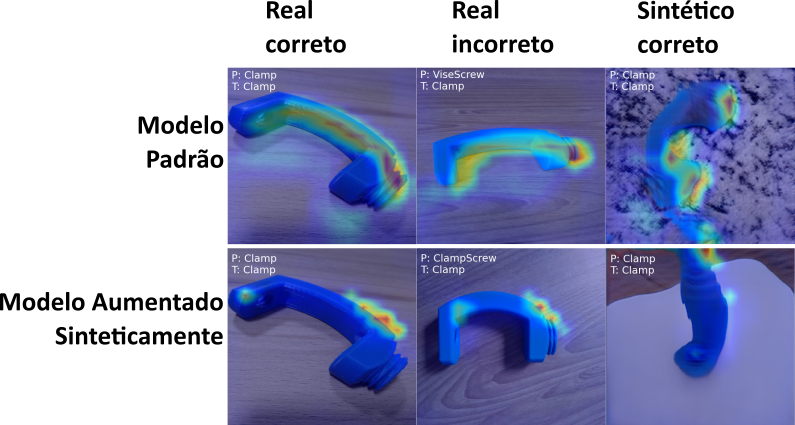
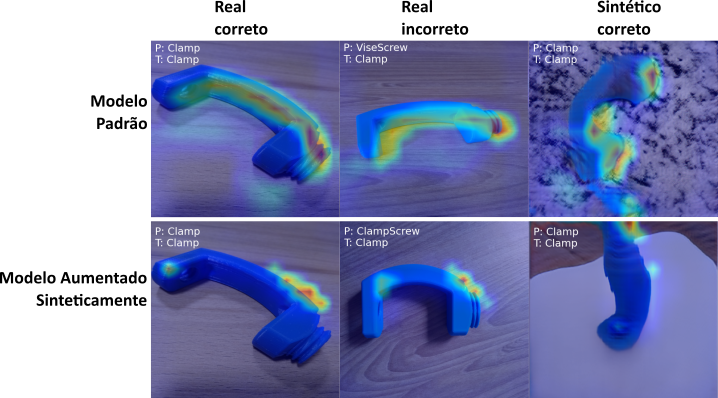
Att README

diff --git a/README.md b/README.md
@@ -66,7 +66,7 @@ O presente trabalho foi realizado em três etapas, sendo elas:
 
 **2) Classificação**: Treinamos uma série de CNNs a partir das imagens e de seus rótulos. Mais explicitamente, avaliamos os efeitos de 1. treinar um classificador somente nos dados originais; 2. treinar com os dados originais e técnicas tradicionais de aumento de dados; e 3. treinar com os dados originais e com os dados sintéticos.
 
-**3) Visualização do aprendizado das CNNs**: Uma vez treinada as CNNs aplicamos a Grad-CAM, uma técnica que nos possibilita visualizar as regiões da imagem mais relevantes para a decisão do classificador.
+**3) Visualização do aprendizado das CNNs**: Uma vez treinada as CNNs aplicamos a [Grad-CAM](https://arxiv.org/abs/1610.02391), uma técnica que nos possibilita visualizar as regiões da imagem mais relevantes para a decisão do classificador.
 
 ### **Avaliação**
 
@@ -77,6 +77,7 @@ Dada a abordagem acima, avaliamos os resultados do nosso experimento por meio de
 Para este trabalho, utilizamos o [PyTorch](https://pytorch.org/) como framework principal e desenvolvemos o código no ambiente [Google Colab](https://colab.research.google.com/).
 
 ## Resultados e Discussão
+Abaixo dividimos a seção em três partes para abordar melhor a cronologia de desenvolvimento de cada etapa do projeto.
 
 ### **1) GANs**
 Adaptando a arquitetura da FastGAN para as nossas necessidades conseguimos treinar cada classe do nosso conjunto de dados individualmente. Algumas amostras podem ser visualizadas abaixo:
@@ -85,10 +86,16 @@ Adaptando a arquitetura da FastGAN para as nossas necessidades conseguimos trein
 |:--:|
 | Figura 3 - Amostra geradas. <br> Fonte: Imagem própria. |
 
-As amostras obtidas por meio da rede generativa lembram a estrutura da classe à qual cada uma pertence, porém elas são facilmente distinguíveis como sendo imagens falsas devido a fatores como formas distorcidas, padrão de cores e etc. Contudo, neste trabalho não tivemos o objetivo de gerar amostras fidedignas em aspectos visuais, mas sim amostras que tragam as propriedades estatísticas das nossas classes para que elas sejam úteis no aumento do nosso conjunto de dados.
+O interessante é que como o gerador da GAN é uma função contínua pequenas mudanças na entrada geram pequenas mudanças na saída e isso pode ser aproveitado como uma forma de gerar distúrbios e variações de imagens, além de mostrar a capacidade de amostragam que o modelo proporciona.
+
+|![Interpolação linear do Nut](./img/nut.gif) ![Interpolação linear do Clamp](./img/clamp.gif)|
+|:--:|
+| Figura 5 - Interpolação linear do Nut e Clamp no espaço latente do gerador. <br> Fonte: Imagem própria. |
+
+Por fim as amostras obtidas da rede generativa lembram a estrutura da classe à qual cada uma pertence, porém elas são facilmente distinguíveis como sendo imagens falsas devido a fatores como formas distorcidas, padrão de cores e etc. Contudo, neste trabalho não tivemos o objetivo de gerar amostras fidedignas em aspectos visuais, mas sim amostras que tragam as propriedades estatísticas das nossas classes para que elas sejam úteis no aumento do nosso conjunto de dados.
 
 ### **2) Classificação**
-Para avaliarmos o desempenho das amostras sintéticas em outros modelos treinamos duas CNNs: VGG16 e MobileNetV3. As duas redes foram treinadas com os dados originais e com o acréscimo de dados sintéticos em várias proporções, conforme mostra a imagem abaixo.
+Para avaliarmos o desempenho das amostras sintéticas em outros modelos treinamos duas CNNs: [VGG16](https://arxiv.org/abs/1409.1556) e [MobileNetV3](https://arxiv.org/abs/1905.02244). As duas redes foram treinadas com os dados originais e com o acréscimo de dados sintéticos em várias proporções, conforme mostra a imagem abaixo.
 |![MobileNetV3](./img/losses_mobilenet.png)|
 |:--:|
 | Figura 4 - Performance de treinamento da MobileNetV3. <br> Fonte: Imagem própria. |
@@ -105,8 +112,18 @@ Na primeira linha da Figura 5 podemos ver alguns resultados do método Grad-CAM 
 
 Esse resultado nos traz algumas reflexões sobre o uso de dados sintéticos no treinamento de um modelo, pois o modelo treinado com dados sintético é mais acurado que o treinado apenas com dados reais, e isso pode indicar que os dados sintéticos refinam o modelo classificativo pois trazem as características únicas de cada classe e fazem com que o classificador torne-se mais preciso em detalhes únicos de cada classe.
 
-## Conclusão(REFAZER)
-A síntese de imagens com um conjunto de dados pequeno e poder computacional limitado é uma tarefa difícil, contudo existe na literatura métodos que se propõem a isso, e adaptando um desses métodos a FastGAN as nossas necessidades fomos capazes de amostrar dados condizentes em aspectos visuais com o nosso conjunto de dados. No entanto ainda há etapas que devemos nos aprofundar e dar prosseguimento como o treinamento de redes neurais para classificação e a utilização de métodos de interpretação dessas redes para averiguarmos se as amostras sintéticas obtidas trazem as propriedades do conjunto de dados original.
+## Conclusão(EM ANDAMENTO)
+A síntese de imagens utilizando um conjunto de dados pequeno e poder computacional limitado é uma tarefa difícil, ainda mais quando o objetivo é obter dessas amostras sintetizadas propriedades que nos permita adiciona-lás de volta ao nosso conjunto de dados para aumenta-lo de maneira benigna. Para alcançarmos isso dividimos o trabalho em três partes: síntese, aplicação e entendimento.  
+
+Na parte de síntese adaptamos as nossas necessidades uma arquitetura conhecida como FastGAN, a qual foi capaz de produzir imagens com conteúdos visuais coerentes para cada classe e uma ampla gama de possibilidades de amostragem que inclui imagens com variações de forma, pose e local.  
+
+Na segunda parte buscamos uma aplicação ao nosso conjunto de dados aumentado para tentarmos quantificar os efeitos dos dados sintéticos, assim aproveitamos que os dados são rotulados e treinamos diversas CNNs em que conseguimos constatar que a adição de amostra sintéticas teve um efeito positivo.  
+
+A última etapa foi para entendermos os efeitos que os dados sintéticos geraram sobre os nossos classificadores, para isso usamos a Grad-CAM e visualizamos as regiões mais importantes da tomada de decisão das CNNs e notamos que os dados sintéticos fazem o classificador ter uma área mais restrita para a sua tomada de decisão, focando em pequenos detalhes apenas.  
+
+Juntando as informações de cada etapa temos que as amostras geradas pela GAN aprimorou o desempenho das redes classificativas e alterou também o seu padrão de tomada de decisão, isso indica que as amostras sintetizadas trouxeram as propriedades das amostras reais e podem ser benéficas para o aumento de um conjunto de dados que será utilizado em outras aplicações.  
+
+Todavia o efeito de restringir a área de tomada de decisão da CNN foi o que mais nos chamou a atenção, pois isso poderia indicar que as amostras sintetizadas não possuem em sí uma grande estrutura que remete as amostras reais e sim pequenas estruturas únicas de cada classe, como também poderia indicar que o acréscimo de variabilidade obtido das amostras sintéticas faria o classificador se tornar mais apto a distinguir os detalhes únicos que cada classe apresenta. Isso é algo que possa vir a ser estudado mais afundo e que exigiria uma outra metodologia para associar os efeitos de um modelo generativo profundo ao aprendizado de um modelo que use esses dados.
 
 
 ## Cronograma
@@ -135,6 +152,8 @@ A síntese de imagens com um conjunto de dados pequeno e poder computacional lim
 * [GANs Trained by a Two Time-Scale Update Rule Converge to a Local Nash Equilibrium](https://arxiv.org/abs/1706.08500)
 * [Batch Normalization: Accelerating Deep Network Training by Reducing Internal Covariate Shift](https://arxiv.org/abs/1502.03167)
 * [Language Modeling with Gated Convolutional Networks](https://arxiv.org/abs/1612.08083)
+* [Searching for MobileNetV3](https://arxiv.org/abs/1905.02244)
+* [Very Deep Convolutional Networks for Large-Scale Image Recognition](https://arxiv.org/abs/1409.1556)
 * [Grad-CAM](https://arxiv.org/abs/1610.02391)
 
 ## Apêndice
